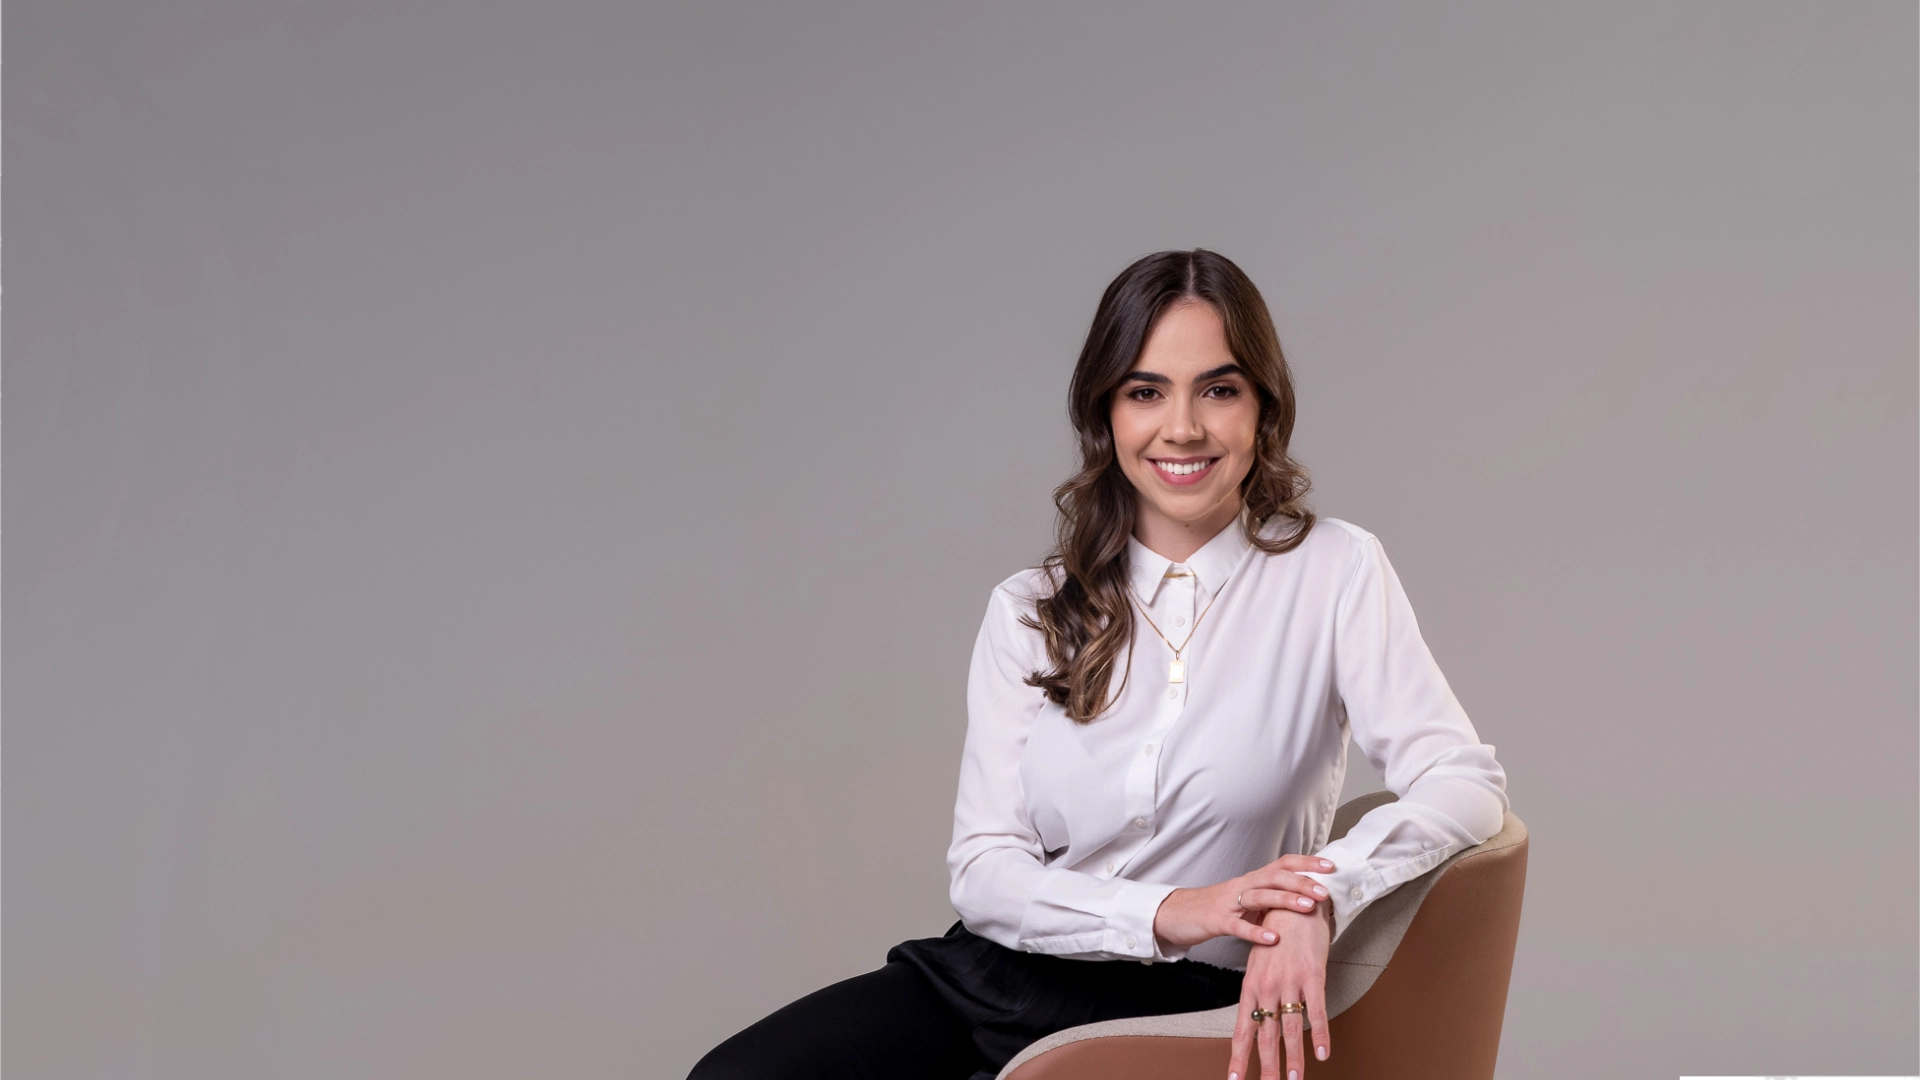
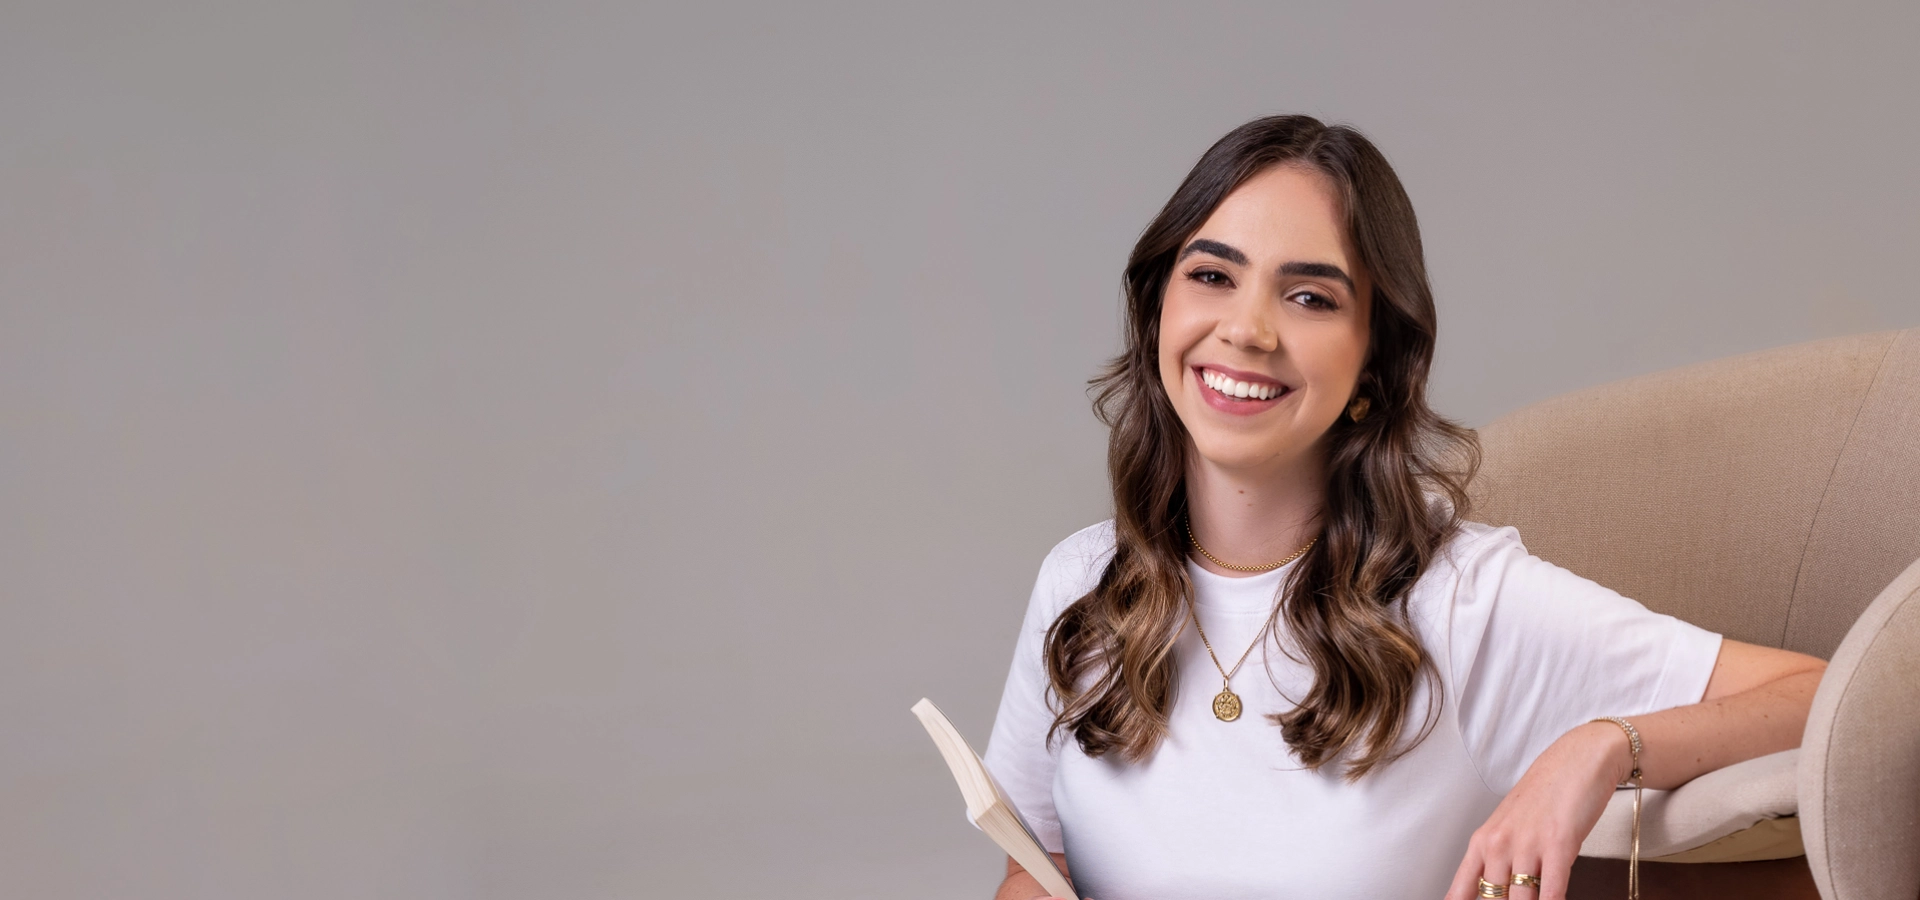
Atualiza hero desktop e mobile, ajustes de texto e espacamento

diff --git a/index.html b/index.html
@@ -73,26 +73,33 @@
             </div>
         </div>
     </nav>
-    <header class="relative min-h-[90vh] flex flex-col justify-center overflow-hidden" id="inicio">
+    <header class="relative flex flex-col justify-center overflow-hidden min-h-screen" id="inicio">
         <!-- Background Image -->
         <div class="absolute inset-0 z-0">
-            <img src="hero.webp" alt="Background" class="w-full h-full object-cover">
+            <picture class="w-full h-full">
+                <source media="(max-width: 767px)" srcset="hero-mobile.webp">
+                <source media="(min-width: 768px)" srcset="hero.webp">
+                <img src="hero.webp" alt="Background" class="w-full h-full object-cover object-top">
+            </picture>
         </div>
 
-        <div class="relative z-10 max-w-7xl mx-auto px-4 md:px-8 w-full" style="margin-top: 25px;">
-            <div class="max-w-3xl flex flex-col items-start gap-2">
-                <h1 class="text-5xl md:text-6xl lg:text-7xl font-medium text-stone-900 leading-[1.1] tracking-tight mb-1.5">
-                    Roberta Muller
+
+
+        <div class="absolute inset-0 z-10 flex flex-col justify-end md:justify-center pb-12 md:pb-0">
+        <div class="max-w-7xl mx-auto px-4 md:px-8 w-full md:mt-[25px]">
+            <div class="max-w-3xl flex flex-col items-start">
+                <h1 class="text-[48px] md:text-6xl lg:text-7xl font-medium text-stone-900 leading-[1.15] tracking-tight mb-1 md:mb-1.5">
+                    Roberta<br class="md:hidden"> Muller
                 </h1>
-                <p class="text-lg md:text-xl font-light text-stone-700 max-w-lg leading-relaxed mb-1.5">
-                    Psicóloga | Adolescentes e Adultos
+                <p class="text-base md:text-xl font-light text-stone-700 max-w-lg leading-relaxed mb-1.5 md:mb-2">
+                    Psicóloga | Adultos e<br class="md:hidden"> Adolescentes
                 </p>
-                <div
-                    class="inline-flex items-center gap-2 px-4 py-1.5 rounded-full bg-white border border-stone-200 text-xs font-semibold text-stone-500 shadow-sm mb-1.5">
+                <div class="inline-flex items-center gap-2 px-4 py-1.5 rounded-full bg-white border border-stone-200 text-xs font-semibold text-stone-500 shadow-sm mb-2.5 md:mb-3.5">
                     <span class="w-2 h-2 rounded-full bg-[#1D3619]"></span>
-                    Psicologia baseada em evidência
+                    Psicologia baseada em evidências
                 </div>
-                <div class="flex items-center gap-4 mt-2">
+                <div class="flex items-center gap-1.5 md:gap-2">
+
                     <a class="inline-flex items-center justify-center px-8 py-4 bg-[#1D3619] text-white text-sm font-semibold rounded-full hover:bg-[#2D4A29] transition-all shadow-xl"
                         href="https://wa.me/5199929743" target="_blank" rel="noopener noreferrer">
                         Agende uma sessão
@@ -107,6 +114,7 @@
                 </div>
             </div>
         </div>
+        </div>
     </header>
     <section class="py-20 bg-white" id="sobre-mi">
         <div class="max-w-7xl mx-auto px-4 md:px-8">
@@ -114,8 +122,7 @@
                 class="bg-[#F0F4F0] rounded-[3rem] p-8 md:p-16 text-center border border-stone-200 shadow-sm opacity-100">
                 <div class="max-w-3xl mx-auto space-y-6">
                     <span class="uppercase tracking-widest text-xs font-bold text-stone-400">Sobre Roberta Muller</span>
-                    <h2 class="text-3xl md:text-4xl font-medium text-stone-900 tracking-tight">Mais que terapia, um
-                        caminho para o seu autodescoberta.</h2>
+                    <h2 class="text-3xl md:text-4xl font-medium text-stone-900 tracking-tight">Mais que terapia, um caminho para o seu autoconhecimento.</h2>
                     <p class="text-stone-500 font-light leading-relaxed text-lg">
                         Sou psicóloga formada pela Universidade do Sul de Santa Catarina e pós-graduanda em Psicoterapia Baseada em Evidências: Terapias Cognitivo-Comportamentais. Possuo formação em Psicopatologia e Terapia Cognitivo-Comportamental, além de cursos na área de Análise do Comportamento, Terapia de Aceitação e Compromisso e Terapia do Esquema.
                     </p>
@@ -152,11 +159,9 @@
                     class="w-14 h-14 bg-white rounded-2xl flex items-center justify-center text-[#2D4A29] mb-8 shadow-sm group-hover:scale-110 transition-transform duration-500">
                     <span class="material-symbols-outlined text-3xl">favorite_border</span>
                 </div>
-                <h3 class="text-2xl font-serif font-medium text-stone-900 mb-4">Autoconhecimento e desenvolvimento pessoal</h3>
+                <h3 class="text-xl font-serif font-medium text-stone-900 mb-4">Autoconhecimento e desenvolvimento pessoal</h3>
                 <p class="text-sm text-stone-600 leading-relaxed mb-8 text-center">A terapia também é um caminho para quem deseja se conhecer melhor, entender suas emoções, comportamentos e escolhas. Nesse processo, buscaremos desenvolver habilidades emocionais e construir uma vida mais alinhada com seus valores e objetivos.</p>
-                <div class="mt-auto">
-                    <span class="text-xs font-bold uppercase tracking-widest text-[#2D4A29] opacity-60">Processo Contínuo</span>
-                </div>
+
             </div>
             <div class="bento-card bg-white border border-stone-100 p-10 rounded-[2.5rem] group flex flex-col items-center text-center">
                 <div class="w-14 h-14 bg-[#F0F4F0] rounded-2xl flex items-center justify-center text-[#2D4A29] mb-8">
@@ -265,7 +270,7 @@
         <div class="bg-[#F0F4F0] rounded-[3rem] p-12 md:p-16 text-center border border-[#1D3619]/20 relative overflow-hidden"
             id="contacto">
             <div class="relative z-10">
-                <h3 class="text-3xl md:text-4xl font-serif text-stone-900 mb-6">Pronta para dar o primeiro passo?</h3>
+                <h3 class="text-3xl md:text-4xl font-serif text-stone-900 mb-6">Pronto para dar o primeiro passo?</h3>
                 <p class="text-stone-600 font-light mb-10 max-w-lg mx-auto text-lg">Estou aqui para te acompanhar no seu
                     processo. Agende sua primeira sessão e vamos começar a trabalhar no seu bem-estar.</p>
                 <a class="inline-flex items-center justify-center px-10 py-4 bg-[#1D3619] text-white text-sm font-semibold rounded-full hover:bg-[#2D4A29] transition-all shadow-xl hover:shadow-2xl hover:-translate-y-1 gap-3"
